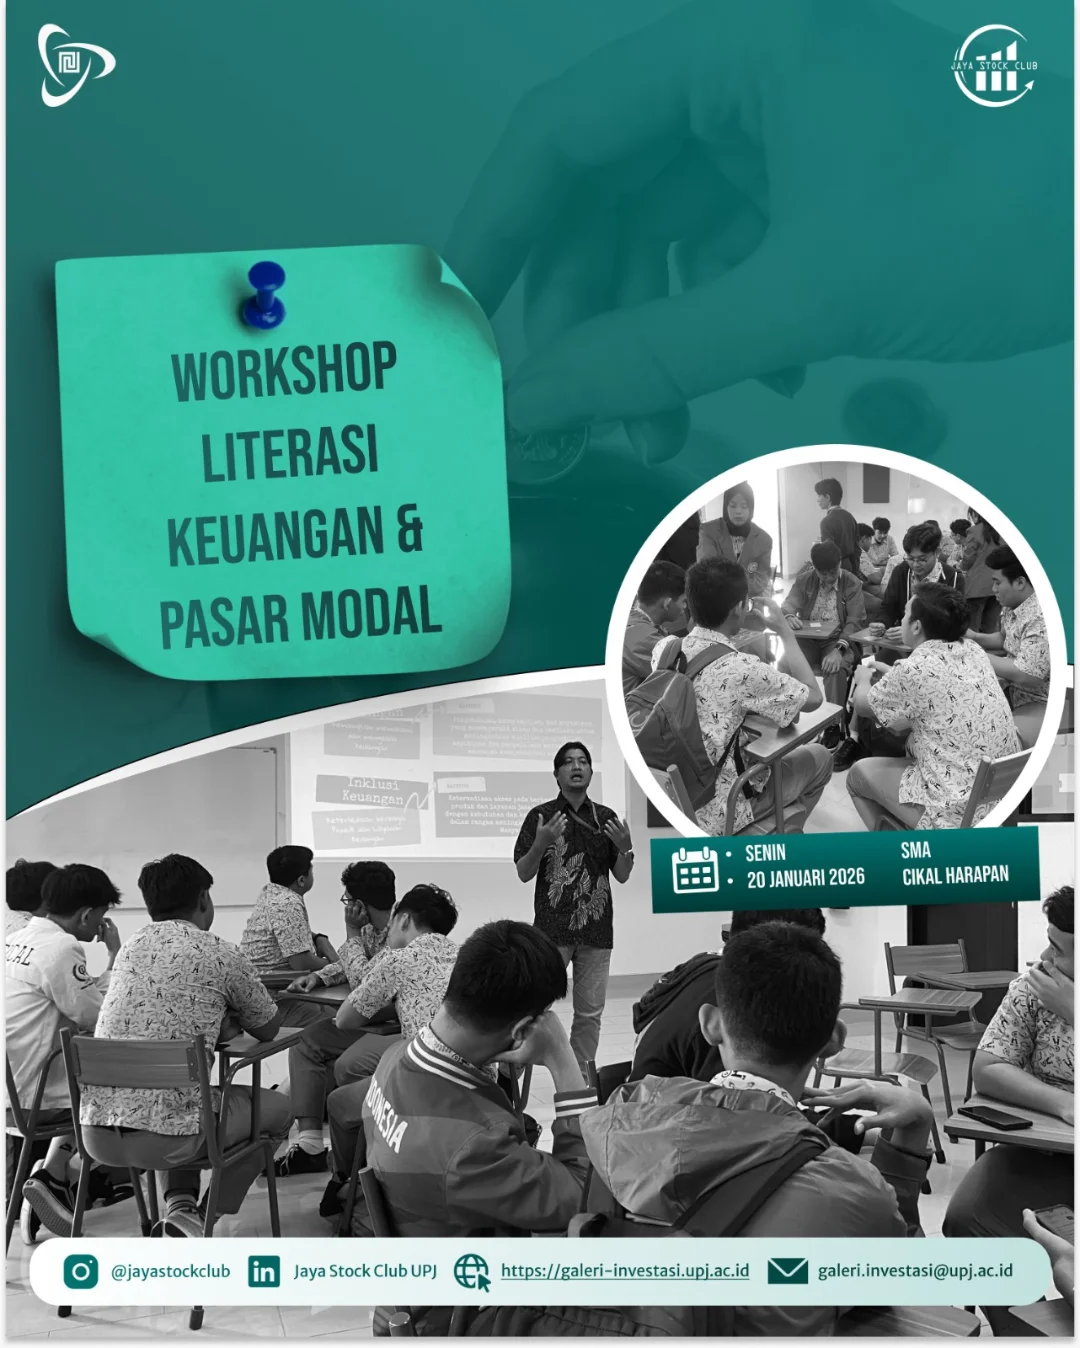
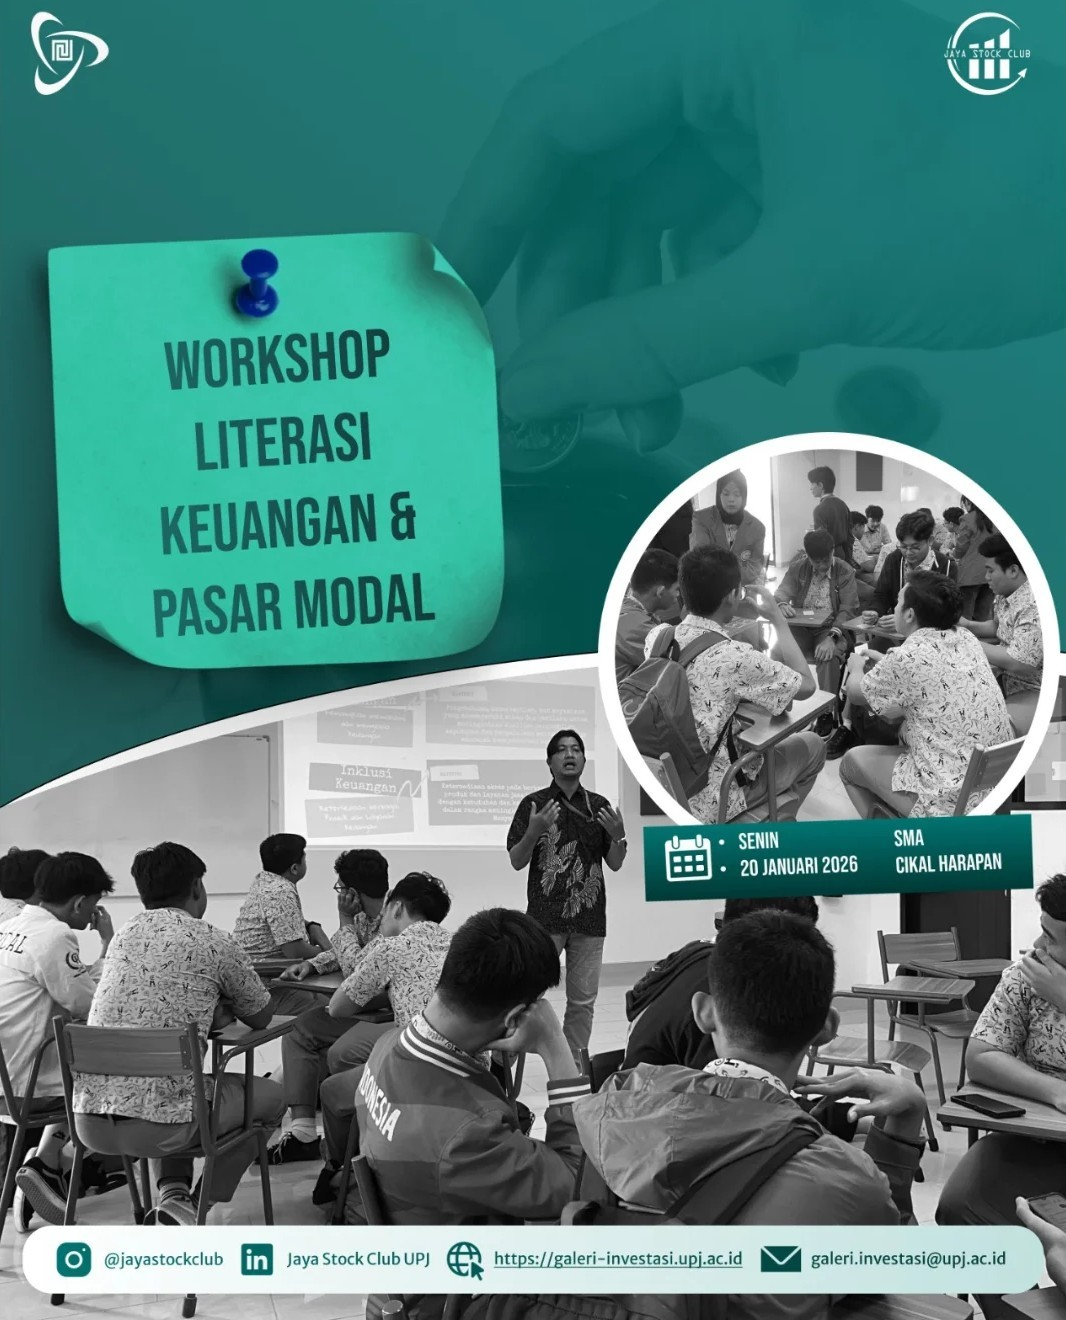
add dotenv

diff --git a/src/components/DashboardSidebar.jsx b/src/components/DashboardSidebar.jsx
@@ -2,9 +2,11 @@ import React from 'react'
 import axios from 'axios';
 // import logo from './asset/logo.png'
 import { useNavigate, useLocation } from 'react-router-dom';
-import { IoCaretForwardOutline, IoPeople, IoPerson, IoCard, IoTrophy } from "react-icons/io5";
+import { IoPerson, IoTrophy, IoNewspaperSharp } from "react-icons/io5";
 import { CgLogOut } from "react-icons/cg";
-import { IoMdPaper } from 'react-icons/io';
+import { FaCamera, FaCalendarAlt } from "react-icons/fa";
+import { FaPeopleGroup } from "react-icons/fa6";
+import { MdOutlineLoop } from "react-icons/md";
 
 const MenuItem = ({ path, icon, label, isActive, onClick }) => (
   <div className={`${isActive ? 'rounded-sm border-e-[5px] border-[#003835] ':''}`}>
@@ -21,12 +23,12 @@ const DashboardSidebar = () => {
   const location = useLocation();
 
   const sideMenu = [
-    { path: '/admin/blogs', icon: <IoMdPaper/>, label: 'Blog' },
-    { path: '/admin/gallery', icon: <IoCard />, label: 'Gallery' },
+    { path: '/admin/blogs', icon: <IoNewspaperSharp/>, label: 'Blog' },
+    { path: '/admin/gallery', icon: <FaCamera />, label: 'Gallery' },
     { path: '/admin/achievement', icon: <IoTrophy />, label: 'Achievement' },
-    { path: '/admin/divisions', icon: <IoPeople />, label: 'Division' },
-    { path: '/admin/carousel', icon: <IoCaretForwardOutline />, label: 'Carousel' },
-    { path: '/admin/event', icon: <IoCaretForwardOutline />, label: 'Event' }
+    { path: '/admin/divisions', icon: <FaPeopleGroup />, label: 'Division' },
+    { path: '/admin/carousel', icon: <MdOutlineLoop />, label: 'Carousel' },
+    { path: '/admin/event', icon: <FaCalendarAlt />, label: 'Event' }
   ];
 
   const handleLogout = async () => {
@@ -54,7 +56,7 @@ const DashboardSidebar = () => {
           <div className='side bag atas w-full h-4/6 flex flex-col items-center'>
 
             <div className='logo flex justify-center w-full mb-5'>
-                <img className='md:w-[55%] lg:w-[45%]' src="/public/Assets/jsc_logo.png" />
+                <img className='md:w-[55%] lg:w-[40%]' src="/public/Assets/jsc_logo_hitam.png" />
             </div>
 
             <div className='w-full flex flex-col text-sm gap-3'>
@@ -82,15 +84,15 @@ const DashboardSidebar = () => {
                   <IoPerson size={20}/>
                 </div>
 
-                <p className='text-[12px] pt-3 text-xl font-semibold'>Admin JSC Asli</p>
+                <p className='pt-3 text-lg font-semibold'>Admin</p>
 
               </div>
 
               <div 
-                className='h-1/3 cursor-pointer flex gap-1 justify-center items-center font-semibold text-[12px] hover:text-red-500'
+                className='cursor-pointer flex items-center gap-2 font-semibold text-md hover:text-red-500'
                 onClick={handleLogout}
               >
-                <CgLogOut size={16}/> Log Out
+                <CgLogOut size={20} className='mt-1'/> Logout
               </div>
 
           </div>

diff --git a/src/App.jsx b/src/App.jsx
@@ -76,11 +76,18 @@ const App = () => {
         md: //// bg black-40
       "
       >
-        <img
-          className="w-16 md:w-24 lg:w-28 shrink-0"
-          src="/Assets/upj.png"
-          alt="UPJ Logo"
-        />
+        <div className="w-1/5 flex items-center gap-x-2">
+          <img
+            className="w-16 md:w-24 lg:w-28 shrink-0 p-2"
+            src="/Assets/upj.png"
+            alt="UPJ Logo"
+          />
+          <img
+            className="w-16 md:w-24 lg:w-20 shrink-0 p-2"
+            src="/Assets/jsc_logo.png"
+            alt="JSC Logo"
+          />
+        </div>
 
         {/* DESKTOP MENU */}
         <ul className="hidden md:flex gap-x-4 lg:gap-x-7 text-white text-sm lg:text-base shrink-0">
@@ -426,31 +433,26 @@ const App = () => {
             JayaStockClub
           </p>
           <div className="pt-7 hidden md:block">
-            <img
-              src="/Assets/main.jpg"
-              className="w-44 h-32 rounded-lg"
+            <div
+              className="w-44 h-32 rounded-lg bg-cover bg-[url('/Assets/activities_1.jpg')]"
               alt=""
-            />
-            <img
-              src="/Assets/dummy3.jpg"
-              className="w-44 h-32 relative left-32 bottom-4 rounded-lg"
+            ></div>
+            <div
+              className="w-44 h-32 relative left-32 bottom-4 rounded-lg bg-cover bg-[url('/Assets/activities_2.jpg')]"
               alt=""
-            />
-            <img
-              src="/Assets/dummy4.jpg"
-              className="w-44 h-32 relative rounded-lg bottom-10"
+            ></div>
+            <div
+              className="w-44 h-32 relative rounded-lg bottom-10 bg-cover bg-[url('/Assets/dummy3.jpg')]"
               alt=""
-            />
-            <img
-              src="/Assets/dummy3.jpg"
-              className="hidden 2xl:block w-44 h-32 relative left-32 bottom-15 rounded-lg"
+            ></div>
+            <div
+              className="hidden 2xl:block w-44 h-32 relative left-32 bottom-15 rounded-lg bg-cover bg-[url('/Assets/main.jpg')]"
               alt=""
-            />
-            <img
-              src="/Assets/dummy4.jpg"
-              className="hidden 2xl:block w-44 h-32 relative rounded-lg bottom-19"
+            ></div>
+            <div
+              className="hidden 2xl:block w-44 h-32 relative rounded-lg bottom-19 bg-cover bg-[url('/Assets/main.jpg')]"
               alt=""
-            />
+            ></div>
           </div>
         </div>
         <div className="md:w-3/5 md:p-10">
@@ -663,9 +665,11 @@ const App = () => {
           />
         </div>
       </div>
-
       <Footer />
+      
+      <div></div>
     </div>
+
   );
 };
 

diff --git a/src/components/DetailPanel.jsx b/src/components/DetailPanel.jsx
@@ -114,14 +114,14 @@ const DetailPanel = ({
           <>
             <button
               onClick={handleEdit}
-              className="w-full flex justify-center items-center gap-1 font-semibold bg-[#003835] rounded-md py-2 text-[#c1e1de]"
+              className="w-full flex justify-center items-center gap-1 font-semibold bg-[#003835] rounded-md py-2 text-[#c1e1de] cursor-pointer"
             >
               Edit <FaEdit />
             </button>
 
             <button
               onClick={(e) => {e.stopPropagation(); onDelete();}}
-              className="w-full flex justify-center items-center gap-1 font-semibold bg-red-500 rounded-md py-2 text-[#c1e1de]"
+              className="w-full flex justify-center items-center gap-1 font-semibold bg-red-500 rounded-md py-2 text-[#c1e1de] cursor-pointer"
             >
               Delete <IoTrash />
             </button>
@@ -130,14 +130,14 @@ const DetailPanel = ({
           <>
             <button
               onClick={handleSave}
-              className="w-full flex justify-center items-center gap-1 font-semibold bg-green-600 rounded-md py-2 text-white"
+              className="w-full flex justify-center items-center gap-1 font-semibold bg-green-600 rounded-md py-2 text-white cursor-pointer"
             >
               Save
             </button>
 
             <button
               onClick={handleCancel}
-              className="w-full flex justify-center items-center gap-1 font-semibold bg-red-500 rounded-md py-2 text-[#c1e1de]"
+              className="w-full flex justify-center items-center gap-1 font-semibold bg-red-500 rounded-md py-2 text-[#c1e1de] cursor-pointer"
             >
               Cancel
             </button>

diff --git a/src/components/DivisionCard.jsx b/src/components/DivisionCard.jsx
@@ -1,4 +1,3 @@
-
 const DivisionCard = ({ label, image, text }) => {
   return (
     <div
@@ -31,7 +30,7 @@ const DivisionCard = ({ label, image, text }) => {
       </div>
 
       <div className="w-full h-[195px] overflow-hidden rounded-md mb-3 shrink-0">
-        <img src={image} alt={label} className="w-full h-full object-cover" />
+        <img src={image} alt={label} className="w-full h-full object-cover" loading="lazy"/>
       </div>
 
       <div className="w-full flex-1 flex items-center justify-center text-center px-3">

diff --git a/src/components/DashboardCard.jsx b/src/components/DashboardCard.jsx
@@ -12,7 +12,7 @@ const DashboardCard = ({
   return (
     <div
       onClick={onClick}
-      className="relative bg-gradient-to-t from-[#003835]/20 to-[#007471]/10 px-2 py-4 w-full h-[120px] rounded-md flex gap-4 cursor-pointer"
+      className="relative bg-linear-to-t from-[#003835]/20 to-[#007471]/10 px-2 py-4 w-full h-[120px] rounded-md flex gap-4 cursor-pointer"
     >
       <img className="w-[120px] h-full object-cover rounded" src={image} />
 

diff --git a/src/main.jsx b/src/main.jsx
@@ -5,7 +5,7 @@ import "aos/dist/aos.css";
 import './index.css'
 import { createBrowserRouter, RouterProvider } from "react-router-dom";
 import ProtectedRoute from './ProtectedRoute.jsx';
-
+// import "dotenv/config"
 import Divisions from './pages/user/Divisions.jsx';
 import Gallery from './pages/user/Gallery.jsx';
 import Achievements from './pages/user/Achievements.jsx';

diff --git a/src/components/EventCard.jsx b/src/components/EventCard.jsx
@@ -4,7 +4,7 @@ const EventCard = ({ img, link }) => {
       href={link}
       target="_blank"
       rel="noopener noreferrer"
-      className="block rounded-md h-52 overflow-hidden"
+      className="block rounded-md h-52 overflow-hidden border-2 border-white"
     >
       <img
         className="w-full h-full object-cover"

diff --git a/src/services/API/adminAPI.js b/src/services/API/adminAPI.js
@@ -1,6 +1,6 @@
 import axios from "axios";
 
-const API = "http://localhost:5000";
+const API = import.meta.env.LINK_BE
 
 export const createAdmin = async (adminData) => {
   try {

diff --git a/src/services/API/blogAPI.js b/src/services/API/blogAPI.js
@@ -1,7 +1,7 @@
 import axios from "axios";
 
 const api = axios.create({
-  baseURL: "http://localhost:5000",
+  baseURL: import.meta.env.LINK_BE,
   withCredentials: true,
 });
 

diff --git a/src/services/API/carouselAPI.js b/src/services/API/carouselAPI.js
@@ -1,7 +1,7 @@
 import axios from "axios";
 
 const api = axios.create({
-  baseURL: "http://localhost:5000",
+  baseURL: import.meta.env.LINK_BE,
   withCredentials: true,
 });
 

diff --git a/src/services/API/eventApi.js b/src/services/API/eventApi.js
@@ -1,7 +1,7 @@
 import axios from "axios";
 
 const api = axios.create({
-  baseURL: "http://localhost:5000",
+  baseURL: import.meta.env.LINK_BE,
   withCredentials: true,
 });
 

diff --git a/src/services/API/galleryAPI.js b/src/services/API/galleryAPI.js
@@ -1,7 +1,7 @@
 import axios from "axios";
 
 const api = axios.create({
-  baseURL: "http://localhost:5000",
+  baseURL: import.meta.env.LINK_BE,
   withCredentials: true,
 });
 
